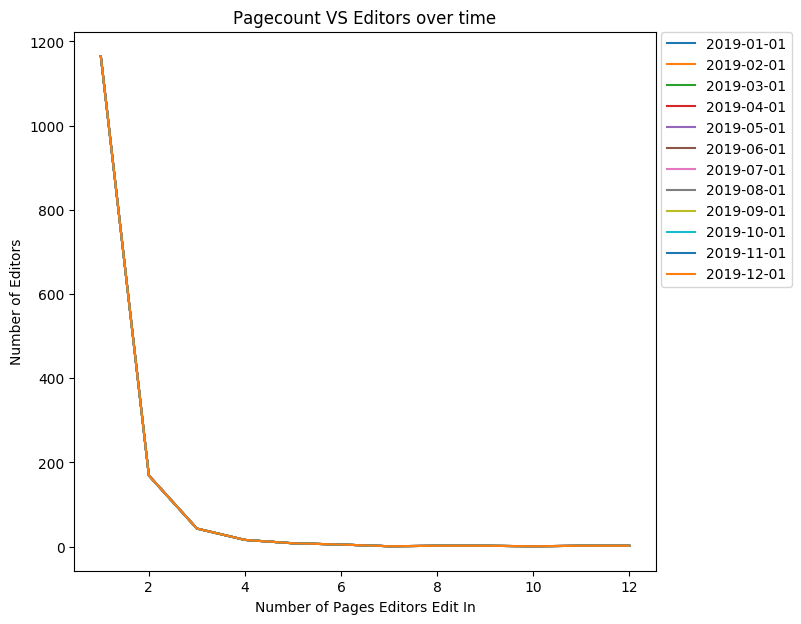
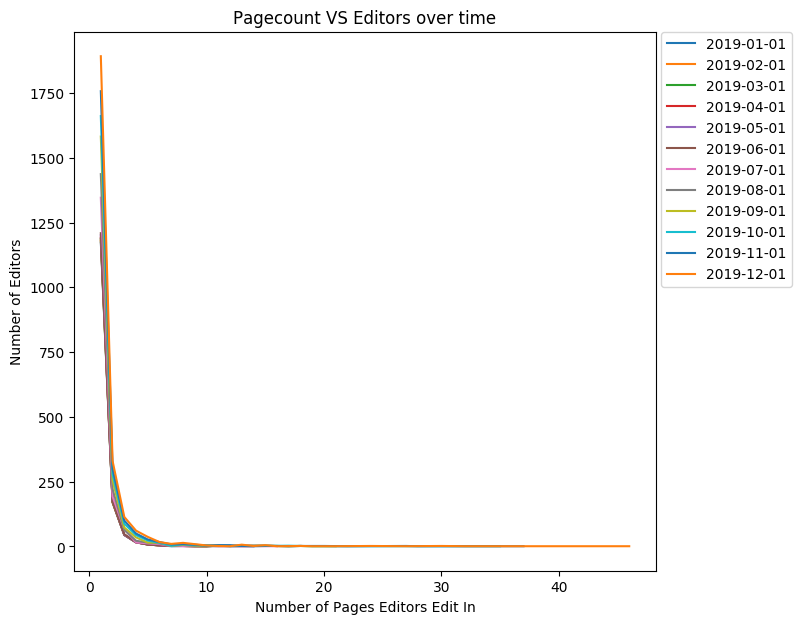
Added jaccard multiline

diff --git a/jaccard_editorpagecount.py b/jaccard_editorpagecount.py
@@ -150,13 +150,11 @@ def bubbleSortList(dataInput):
                 dataInput[j], dataInput[j+1] = dataInput[j+1], dataInput[j]
     return dataInput
 
-def makeMultiLineGraph(start, end):
-    startDate = dt.fromtimestamp(int(time.mktime(dt.strptime(start, "%Y-%m-%d").timetuple()))).date()
-    endDate = dt.fromtimestamp(int(time.mktime(dt.strptime(end, "%Y-%m-%d").timetuple()))).date()
-
+def makeMultiLineGraph():
     for i in range (0, 6):
-        endDate += relativedelta(months=+1)
+        endDate -= relativedelta(months=+1)
         data = getPlotData()
+        print(data)
         plt.plot(data[0], data[1], label= endDate)
         plt.gcf().set_size_inches(15,7)
     figureTitle = "Pagecount VS Editors over time"
@@ -228,12 +226,33 @@ def makePagecountVSNumOfEditors():
     if (not os.path.isfile(os.path.join(plotPath, subpath, figureTitle + ".png"))):
         plt.savefig(os.path.join(plotPath, subpath, figureTitle + ".png"), bbox_inches="tight")
     plt.close()
-'''Testing below'''
+
+
+'''MultiLineGraph Code Below - moved here due to global variable problems'''
 start = "2009-01-01"
-end = "2019-6-01"
+end = "2018-12-01"
 startDate = dt.fromtimestamp(int(time.mktime(dt.strptime(start, "%Y-%m-%d").timetuple()))).date()
 endDate = dt.fromtimestamp(int(time.mktime(dt.strptime(end, "%Y-%m-%d").timetuple()))).date()
-makeMultiLineGraph(start, end)
-#print(getEditorPageList()) # prints Editor along with the pages they editted, sorted\
-#printAveragePages()
+for i in range (0, 12):
+    endDate += relativedelta(months=+1)
+    data = getPlotData()
+    print(data)
+    plt.plot(data[0], data[1], label= endDate)
+    plt.gcf().set_size_inches(15,7)
+figureTitle = "Pagecount VS Editors over time"
+plt.title(figureTitle)
+plt.xlabel("Number of Pages Editors Edit In")
+plt.ylabel("Number of Editors")
+
+subpath = "Jaccard"
+ax = plt.subplot(111)
+box = ax.get_position()
+ax.set_position([box.x0, box.y0, box.width * 0.5, box.height])
+plt.legend(bbox_to_anchor=(1.01, 1), loc='upper left', borderaxespad=0.)
+if (not os.path.isfile(os.path.join(plotPath, subpath, figureTitle + ".png"))):
+    plt.savefig(os.path.join(plotPath, subpath, figureTitle + ".png"), bbox_inches="tight")
+plt.close()
+''' MultiLineGraph Code ends '''
+
+
 sys.exit(0)
